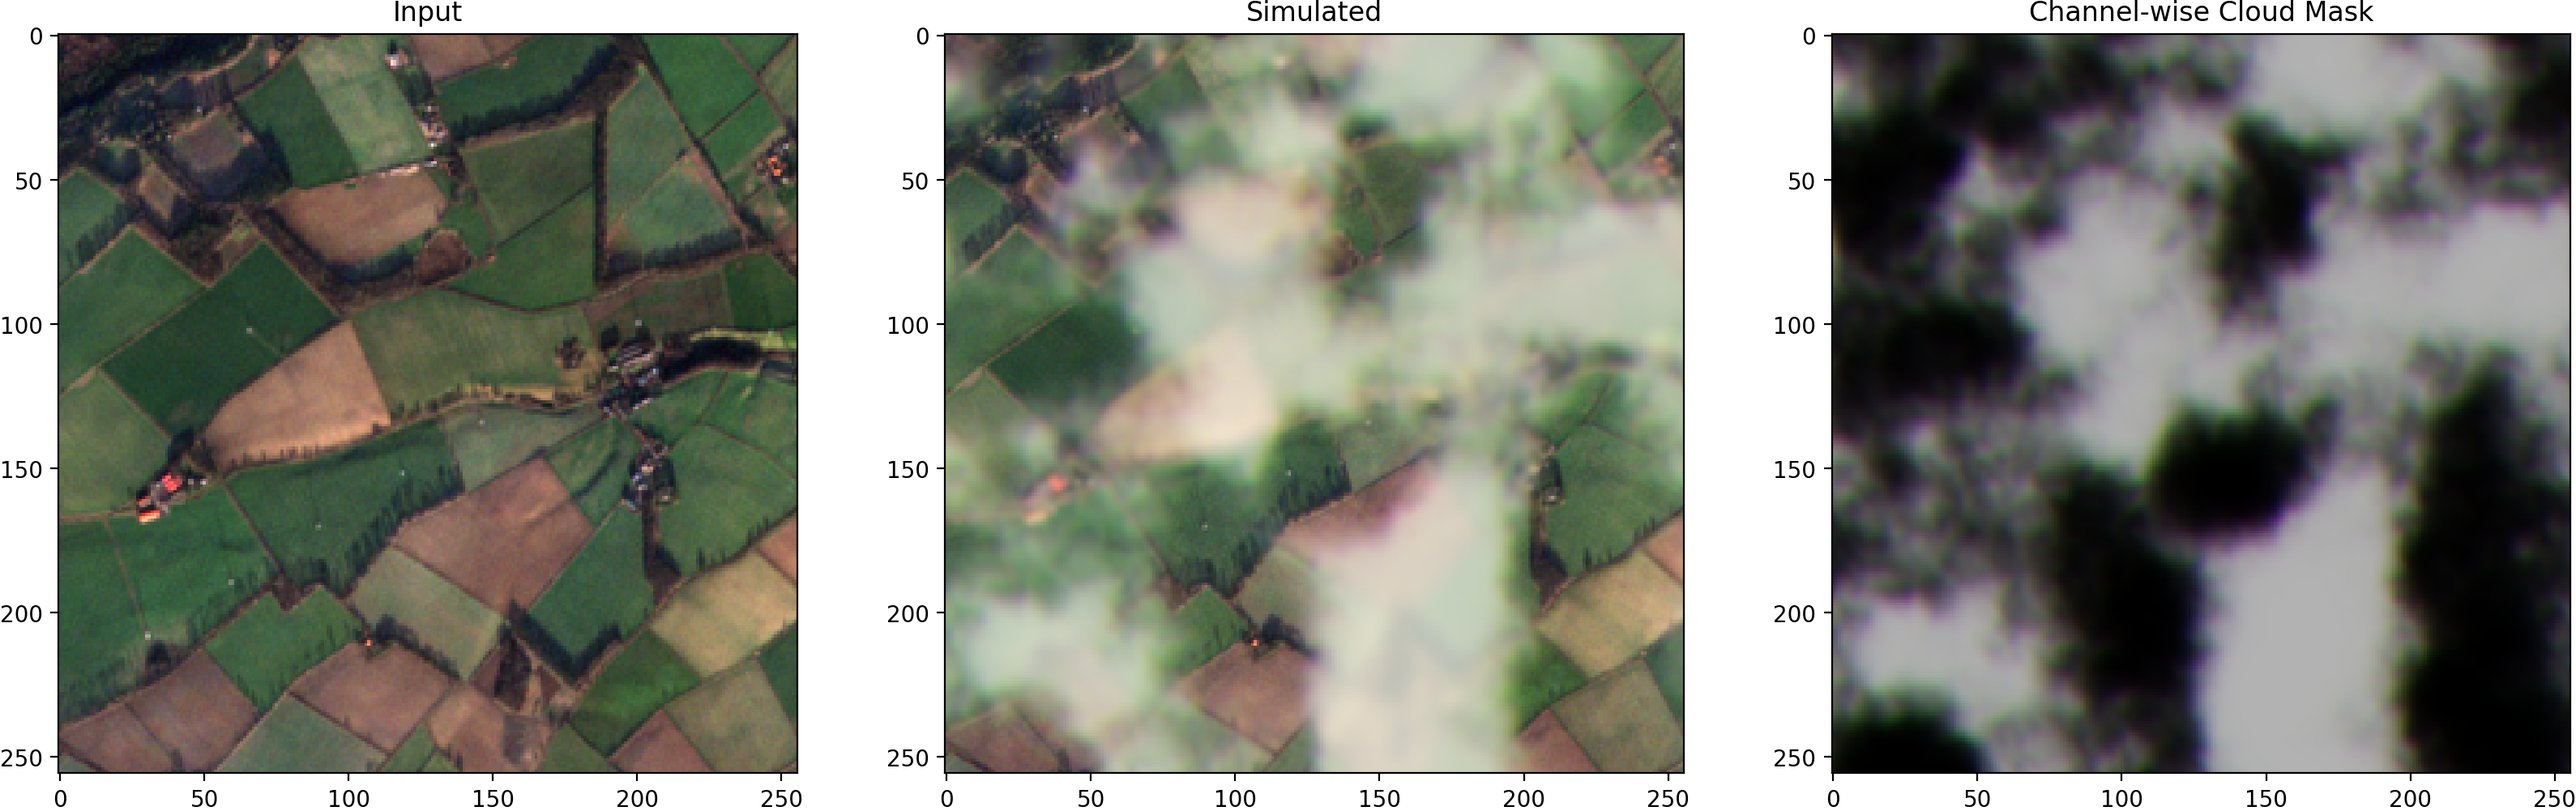
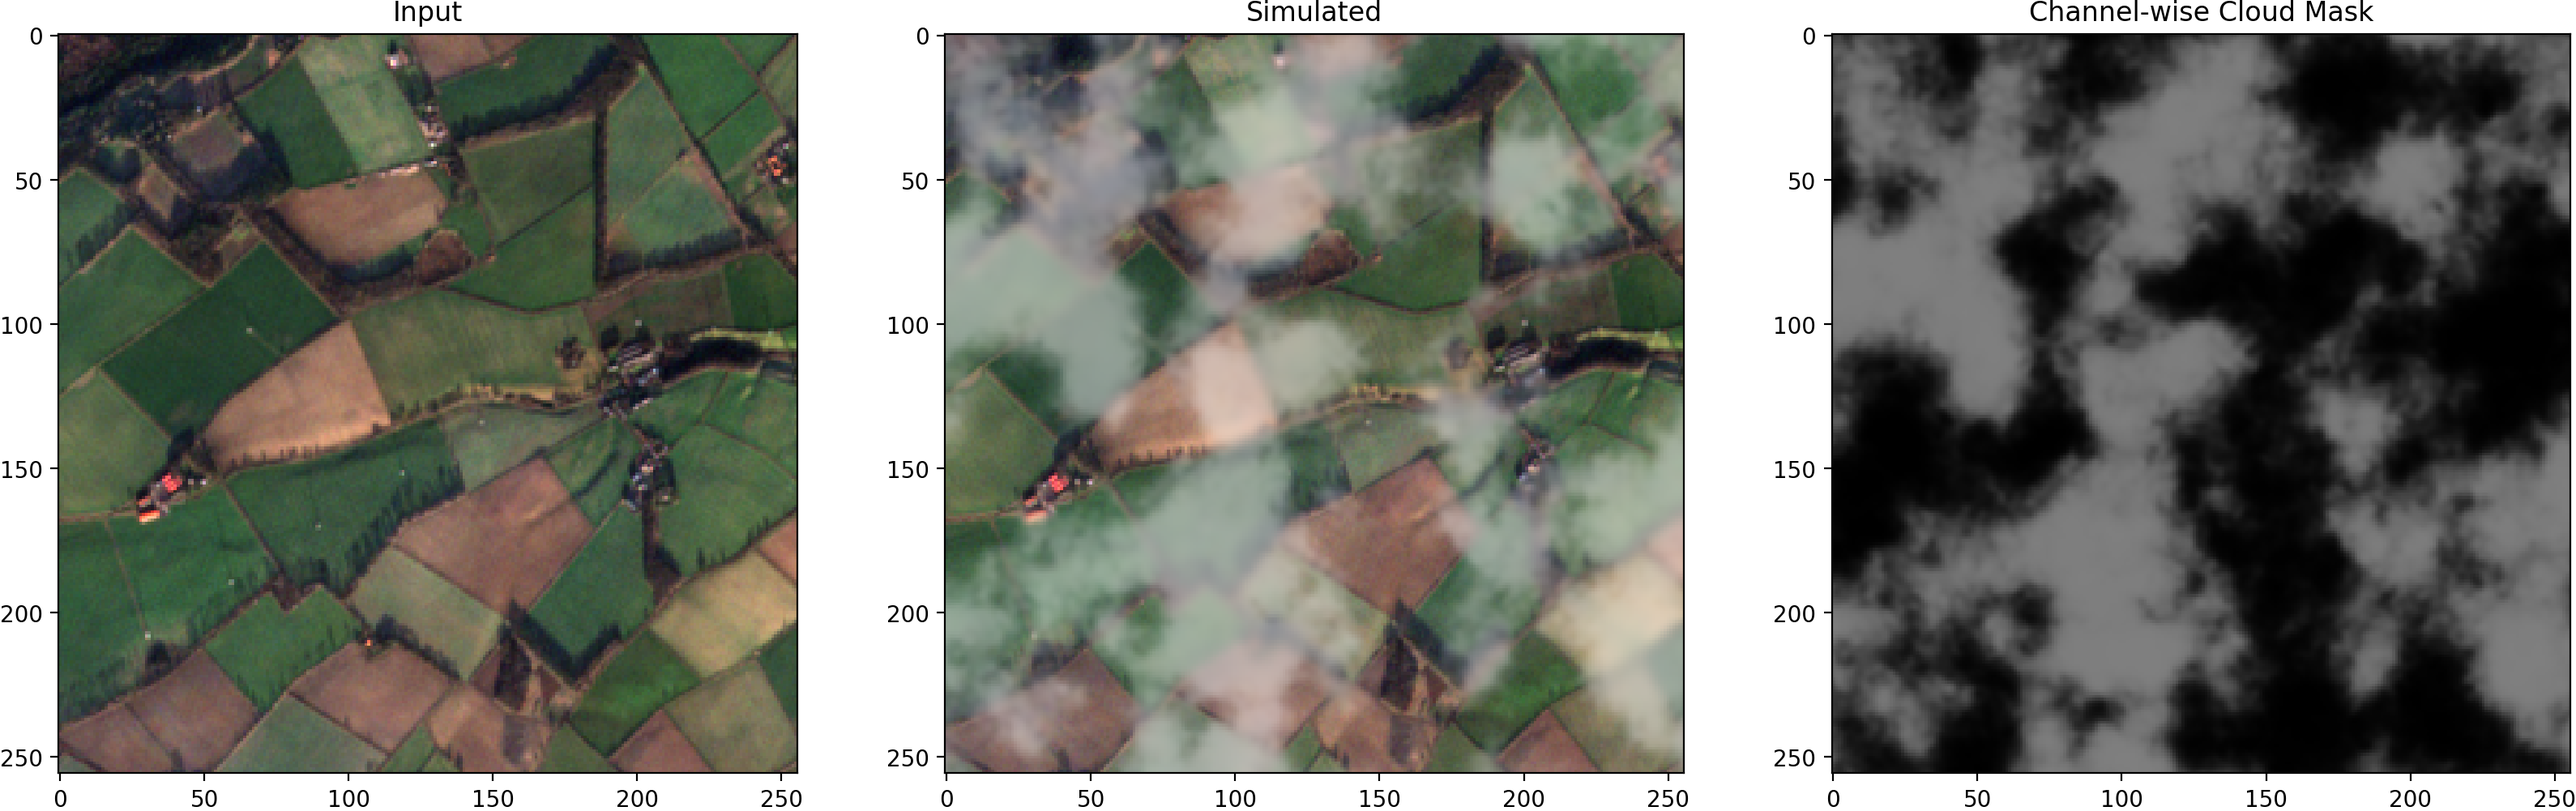
[IMPORTANT] min_lvl and max_lvl have been redefined to refer to the cloud strength

diff --git a/src/CloudSimulator.py b/src/CloudSimulator.py
@@ -10,20 +10,29 @@ from .noise import *
 def misalign_channels(cloud):
     return cloud
 
-def cloud_hue(image, cloud):
+def cloud_hue(image, cloud, scale=5):
+    """
+        Mixes the pure white base of a cloud with mean color of the underlying image
+        
+        scale (float) controls how 'white' the end result is (the lower the value, the more color the cloud will have)
+    """
     # Mean Cloud-Free Color
     mean_color = image.mean((0,1))
     ambience = torch.ones_like(image)
     
+    mask=(cloud*scale).clip(0,1)
+    
     if all(mean_color==0):
         return ambience # prevent mixing with pitch black
     else:
-        return ambience*cloud + (mean_color/mean_color.mean())*ambience*(1-cloud)
+        color_vector=(mean_color/mean_color.mean())
+        color_vector/=color_vector.max() # ensure that no value exceeds 1.0
+        return ambience*mask + color_vector*ambience*(1-mask)
     
 
 # --- Mixing Methods
 
-def mix(input, cloud, blur_scaling=2.0, cloud_color=True, invert=False):
+def mix(input, cloud, shadow=None, blur_scaling=2.0, cloud_color=True, invert=False):
     """ Mixing Operation for an input image and a cloud
     
         Args:
@@ -42,19 +51,22 @@ def mix(input, cloud, blur_scaling=2.0, cloud_color=True, invert=False):
             Tensor: Tensor containing a mixed image
     
     """
+    if shadow is not None:
+        # reuse the same function, with shadow mask as 'cloud' mask (and inverting the 
+        input=mix(input, shadow, blur_scaling=0.0, cloud_color=False, invert=not invert)
     
     # blurring background (optional)
     if blur_scaling != 0.0:
-        modulator = 1-cloud.permute(2,0,1).mean(0)
+        modulator = cloud.permute(2,0,1).mean(0)
         input = local_gaussian_blur(input.permute(2,0,1),
                                     blur_scaling*modulator)[0].permute(1,2,0)
         
     # mix the cloud
     if invert:
-        output = input * (1 - cloud)
+        output = input * (1-cloud)
     else:
         cloud_base = torch.ones_like(input) if not cloud_color else cloud_hue(input, 1-cloud)
-        output = input * cloud + cloud_base * (1-cloud)
+        output = input * (1-cloud) + cloud_base * (cloud)
         
     return output
     
@@ -77,9 +89,9 @@ def add_cloud(input,
         and returns a generated cloudy version of the input image
     
     Args:
-        max_lvl (float or tuple of floats): Indicates the maximum strength of the clear image (1.0 means that some pixels will be clear)
+        max_lvl (float or tuple of floats): Indicates the maximum strength of the cloud (1.0 means that some pixels will be fully non-transparent)
         
-        min_lvl (float or tuple of floats): Indicates the minimum strength of the clear image (0.0 means that some pixels will have full cloud)
+        min_lvl (float or tuple of floats): Indicates the minimum strength of the cloud (0.0 means that some pixels will have no cloud)
         clear_threshold (float): An optional threshold for cutting off some part of the initial generated cloud mask
         
         noise_type (string: 'perlin', 'flex'): Method of noise generation (currently supported: 'perlin', 'flex')
@@ -137,7 +149,7 @@ def add_cloud(input,
         
         net_noise_shape*=noise_shape
 
-    noise_shape = torch.FloatTensor((1-net_noise_shape))
+    noise_shape = torch.FloatTensor(net_noise_shape)
         
     # apply non-linearities
     noise_shape[noise_shape < clear_threshold] = 0.0
@@ -161,6 +173,7 @@ def add_cloud(input,
                                   (h,w),
                                   interpolation='bilinear',
                                   align_corners=True)
+                
     cloud = cloud.permute(1,2,0)
     
     output = mix(input, cloud, blur_scaling=blur_scaling, cloud_color=cloud_color, invert=invert)
@@ -168,7 +181,7 @@ def add_cloud(input,
     if not return_cloud:
         return output
     else:
-        return output, 1.0-cloud if not invert else cloud
+        return output, cloud# if not invert else 1-cloud
 
 def add_cloud_and_shadow(input,
                          max_lvl=(0.95,1.0),
@@ -187,9 +200,9 @@ def add_cloud_and_shadow(input,
         and returns a generated cloudy version of the input image, with additional shadows added to the ground image
     
     Args:
-        max_lvl (float or tuple of floats): Indicates the maximum strength of the clear image (1.0 means that some pixels will be clear)
+        max_lvl (float or tuple of floats): Indicates the maximum strength of the cloud (1.0 means that some pixels will be fully non-transparent)
         
-        min_lvl (float or tuple of floats): Indicates the minimum strength of the clear image (0.0 means that some pixels will have full cloud)
+        min_lvl (float or tuple of floats): Indicates the minimum strength of the cloud (0.0 means that some pixels will have no cloud)
         clear_threshold (float): An optional threshold for cutting off some part of the initial generated cloud mask
         
         noise_type (string: 'perlin', 'flex'): Method of noise generation (currently supported: 'perlin', 'flex')
